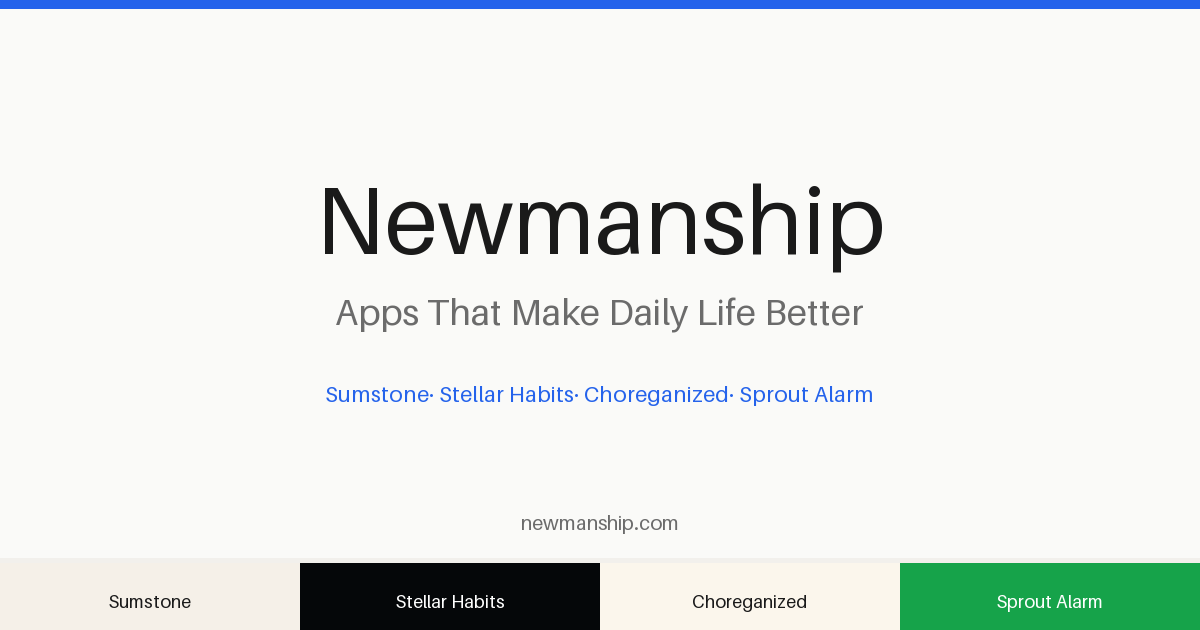
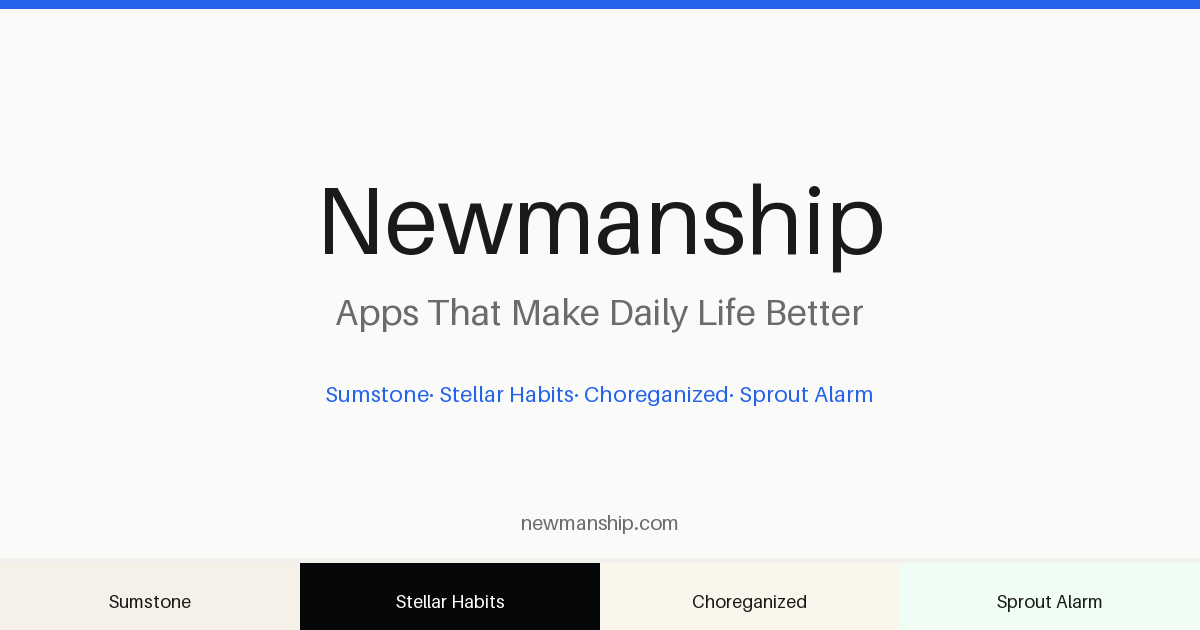
Add Task 5.2: OG image pipeline — per-app and per-post social images

Changed region(s): [[0.74, 0.8746, 1.0, 1.0]]

diff --git a/scripts/generate-og-images.py b/scripts/generate-og-images.py
@@ -8,19 +8,86 @@ OUT_DIR = os.path.join(os.path.dirname(__file__), '..', 'public', 'og')
 os.makedirs(OUT_DIR, exist_ok=True)
 
 # Brand tokens
-BG       = '#FAFAF8'
-SURFACE  = '#F2F0EC'
-INK      = '#1A1A1A'
-INK_MUTED= '#6B6B6B'
-ACCENT   = '#2563EB'
-WHITE    = '#FFFFFF'
+BG        = '#FAFAF8'
+SURFACE   = '#F2F0EC'
+INK       = '#1A1A1A'
+INK_MUTED = '#6B6B6B'
+ACCENT    = '#2563EB'
 
-# App colors
+# App data (mirrors src/content/apps/*.json)
 APPS = [
-    {'name': 'Sumstone',        'bg': '#F5F0E8', 'text': '#1A1A1A'},
-    {'name': 'Stellar Habits',  'bg': '#050709', 'text': '#FFFFFF'},
-    {'name': 'Choreganized',    'bg': '#FBF6EC', 'text': '#1A1A1A'},
-    {'name': 'Sprout Alarm',    'bg': '#16a34a', 'text': '#FFFFFF'},
+    {
+        'slug': 'sumstone',
+        'name': 'Sumstone',
+        'tagline': 'The classic numbers puzzle — pick your tiles, reach the target, beat the clock.',
+        'category': 'Puzzle / Game',
+        'bg': '#F5F0E8',
+        'accent': '#C9A84C',
+        'text': '#1A1A1A',
+        'text_muted': '#6B6B6B',
+    },
+    {
+        'slug': 'stellar-habits',
+        'name': 'Stellar Habits',
+        'tagline': 'Your habits are stars waiting to be lit.',
+        'category': 'Productivity / Habit Tracker',
+        'bg': '#050709',
+        'accent': '#F59E0B',
+        'text': '#FFFFFF',
+        'text_muted': '#AAAAAA',
+    },
+    {
+        'slug': 'choreganized',
+        'name': 'Choreganized',
+        'tagline': 'Never Miss What Matters.',
+        'category': 'Productivity / Life Management',
+        'bg': '#FBF6EC',
+        'accent': '#6366F1',
+        'text': '#1A1A1A',
+        'text_muted': '#6B6B6B',
+    },
+    {
+        'slug': 'sprout-alarm',
+        'name': 'Sprout Alarm',
+        'tagline': 'Wake up. Plant trees.',
+        'category': 'Lifestyle / Alarm Clock',
+        'bg': '#F0FDF4',
+        'accent': '#22C55E',
+        'text': '#1A1A1A',
+        'text_muted': '#6B6B6B',
+    },
+]
+
+# Blog post data (mirrors src/content/blog/*.mdx frontmatter)
+BLOG_POSTS = [
+    {
+        'slug': '5-ways-to-make-math-fun-again',
+        'title': '5 Ways to Make Math Fun Again',
+        'author': 'Ethan Newman',
+        'date': 'April 28, 2026',
+        'tags': ['math', 'puzzle', 'brain games'],
+    },
+    {
+        'slug': 'why-streaks-dont-work',
+        'title': "Why Streaks Don't Work (And What Does)",
+        'author': 'Ethan Newman',
+        'date': 'May 1, 2026',
+        'tags': ['habits', 'productivity', 'habit tracker'],
+    },
+    {
+        'slug': 'home-maintenance-schedule-youll-actually-follow',
+        'title': "The Home Maintenance Schedule You'll Actually Follow",
+        'author': 'Ethan Newman',
+        'date': 'May 5, 2026',
+        'tags': ['home maintenance', 'productivity'],
+    },
+    {
+        'slug': 'how-your-morning-alarm-can-help-the-planet',
+        'title': 'How Your Morning Alarm Can Help the Planet',
+        'author': 'Ethan Newman',
+        'date': 'May 8, 2026',
+        'tags': ['environment', 'productivity', 'alarm'],
+    },
 ]
 
 W, H = 1200, 630
@@ -31,8 +98,12 @@ def hex_to_rgb(h):
     return tuple(int(h[i:i+2], 16) for i in (0, 2, 4))
 
 
+def blend(c1, c2, t):
+    """Linear blend: t=0 → c1, t=1 → c2."""
+    return tuple(int(a * (1 - t) + b * t) for a, b in zip(c1, c2))
+
+
 def make_font(size, bold=False):
-    """Try to load a system font; fall back to PIL default."""
     candidates = [
         '/usr/share/fonts/truetype/dejavu/DejaVuSans-Bold.ttf' if bold else '/usr/share/fonts/truetype/dejavu/DejaVuSans.ttf',
         '/usr/share/fonts/truetype/liberation/LiberationSans-Bold.ttf' if bold else '/usr/share/fonts/truetype/liberation/LiberationSans-Regular.ttf',
@@ -54,44 +125,154 @@ def draw_centered_text(draw, text, y, font, color):
     draw.text((x, y), text, font=font, fill=hex_to_rgb(color))
 
 
-def generate_homepage_og():
+def wrap_text(draw, text, font, max_width):
+    """Split text into lines that fit within max_width pixels."""
+    words = text.split()
+    lines = []
+    current = ''
+    for word in words:
+        test = (current + ' ' + word).strip()
+        bbox = draw.textbbox((0, 0), test, font=font)
+        if bbox[2] - bbox[0] <= max_width:
+            current = test
+        else:
+            if current:
+                lines.append(current)
+            current = word
+    if current:
+        lines.append(current)
+    return lines
+
+
+def draw_wrapped_centered(draw, text, y_start, font, color, max_width, line_height):
+    """Draw word-wrapped centered text; returns y after the last line."""
+    lines = wrap_text(draw, text, font, max_width)
+    y = y_start
+    for line in lines:
+        draw_centered_text(draw, line, y, font, color)
+        y += line_height
+    return y
+
+
+# ---------------------------------------------------------------------------
+# Per-app OG images
+# ---------------------------------------------------------------------------
+
+def generate_app_og(app):
+    img = Image.new('RGB', (W, H), hex_to_rgb(app['bg']))
+    draw = ImageDraw.Draw(img)
+
+    # Top accent bar
+    draw.rectangle([0, 0, W, 10], fill=hex_to_rgb(app['accent']))
+
+    # Subtle bottom strip — blend bg toward accent at 12%
+    strip = blend(hex_to_rgb(app['bg']), hex_to_rgb(app['accent']), 0.12)
+    draw.rectangle([0, H - 80, W, H], fill=strip)
+
+    # Category label
+    cat_font = make_font(22)
+    draw_centered_text(draw, app['category'].upper(), 100, cat_font, app['accent'])
+
+    # App name
+    name_font = make_font(88, bold=True)
+    draw_centered_text(draw, app['name'], 148, name_font, app['text'])
+
+    # Tagline (word-wrapped)
+    tag_font = make_font(32)
+    draw_wrapped_centered(draw, app['tagline'], 278, tag_font, app['text_muted'], 920, 50)
+
+    # Footer URL
+    url_font = make_font(22)
+    draw_centered_text(draw, 'newmanship.com', H - 50, url_font, app['text_muted'])
+
+    out_path = os.path.join(OUT_DIR, f"{app['slug']}.png")
+    img.save(out_path, 'PNG', optimize=True)
+    print(f'Saved {out_path}')
+    return out_path
+
+
+# ---------------------------------------------------------------------------
+# Per-blog-post OG images
+# ---------------------------------------------------------------------------
+
+def generate_blog_og(post):
     img = Image.new('RGB', (W, H), hex_to_rgb(BG))
     draw = ImageDraw.Draw(img)
 
     # Top accent bar
     draw.rectangle([0, 0, W, 8], fill=hex_to_rgb(ACCENT))
 
-    # App color strips at bottom (560–630)
+    # "Newmanship Blog" label
+    label_font = make_font(22, bold=True)
+    draw_centered_text(draw, 'NEWMANSHIP BLOG', 55, label_font, ACCENT)
+
+    # Thin rule
+    draw.rectangle([W // 2 - 180, 96, W // 2 + 180, 98], fill=hex_to_rgb(SURFACE))
+
+    # Title — large bold, word-wrapped
+    title_font = make_font(56, bold=True)
+    title_lines = wrap_text(draw, post['title'], title_font, 950)
+    line_h = 72
+    total_title_h = len(title_lines) * line_h
+    # Center vertically in the 120–430 band
+    title_y = 120 + max(0, (310 - total_title_h) // 2)
+    for line in title_lines:
+        draw_centered_text(draw, line, title_y, title_font, INK)
+        title_y += line_h
+
+    # Author · date
+    meta_font = make_font(22)
+    meta_text = f"{post['author']}  ·  {post['date']}"
+    draw_centered_text(draw, meta_text, 458, meta_font, INK_MUTED)
+
+    # Tags
+    tag_font = make_font(18)
+    tags_text = '  ·  '.join(f'#{t}' for t in post['tags'][:3])
+    draw_centered_text(draw, tags_text, 494, tag_font, ACCENT)
+
+    # URL
+    url_font = make_font(20)
+    draw_centered_text(draw, 'newmanship.com/blog', 565, url_font, INK_MUTED)
+
+    out_path = os.path.join(OUT_DIR, f"blog-{post['slug']}.png")
+    img.save(out_path, 'PNG', optimize=True)
+    print(f'Saved {out_path}')
+    return out_path
+
+
+# ---------------------------------------------------------------------------
+# Homepage & default (from Task 2.5 — regenerated here for completeness)
+# ---------------------------------------------------------------------------
+
+def generate_homepage_og():
+    img = Image.new('RGB', (W, H), hex_to_rgb(BG))
+    draw = ImageDraw.Draw(img)
+
+    draw.rectangle([0, 0, W, 8], fill=hex_to_rgb(ACCENT))
+
     strip_w = W // len(APPS)
     for i, app in enumerate(APPS):
         x0 = i * strip_w
         x1 = x0 + strip_w
         draw.rectangle([x0, 560, x1, H], fill=hex_to_rgb(app['bg']))
-        # App name in strip
         app_font = make_font(18, bold=True)
         bbox = draw.textbbox((0, 0), app['name'], font=app_font)
         tw = bbox[2] - bbox[0]
         tx = x0 + (strip_w - tw) // 2
         draw.text((tx, 590), app['name'], font=app_font, fill=hex_to_rgb(app['text']))
 
-    # Separator line
     draw.rectangle([0, 558, W, 562], fill=hex_to_rgb(SURFACE))
 
-    # Main text area
-    # Brand name
     brand_font = make_font(96, bold=True)
     draw_centered_text(draw, 'Newmanship', 160, brand_font, INK)
 
-    # Tagline
     tag_font = make_font(36)
     draw_centered_text(draw, 'Apps That Make Daily Life Better', 290, tag_font, INK_MUTED)
 
-    # Dot separator
     dot_font = make_font(22)
     dot_text = '· '.join(a['name'] for a in APPS)
     draw_centered_text(draw, dot_text, 380, dot_font, ACCENT)
 
-    # Bottom URL
     url_font = make_font(20)
     draw_centered_text(draw, 'newmanship.com', 510, url_font, INK_MUTED)
 
@@ -102,7 +283,6 @@ def generate_homepage_og():
 
 
 def generate_default_og():
-    """Minimal fallback OG image — just the brand name on a clean background."""
     img = Image.new('RGB', (W, H), hex_to_rgb(BG))
     draw = ImageDraw.Draw(img)
 
@@ -126,4 +306,8 @@ def generate_default_og():
 if __name__ == '__main__':
     generate_homepage_og()
     generate_default_og()
+    for app in APPS:
+        generate_app_og(app)
+    for post in BLOG_POSTS:
+        generate_blog_og(post)
     print('Done.')

diff --git a/PRD.md b/PRD.md
@@ -438,12 +438,13 @@ Gather app screenshots/icons, create OG images, optimize all assets, and polish 
 - Create favicon from Newmanship brand mark
 - Note: Real app icons not yet exported from the app projects; created branded SVG placeholder icons for each app in `public/app-icons/` (sumstone, stellar-habits, choreganized, sprout-alarm) using each app's brand colors and a distinctive visual motif (tiles for Sumstone, star for Stellar Habits, checkmark for Choreganized, sprout for Sprout Alarm); favicon.svg (`public/favicon.svg`) was already in place as a blue "N" monogram from the Task 1.1 scaffold; added `iconPath` field to all 4 app JSON files; updated `AppLandingLayout` to accept `iconPath` prop and display a 128×128 `loading="eager"` icon in the hero; `AppCard` already handled 64×64 icons — icons now appear on homepage cards and all 4 app landing page heroes; replace SVGs with real app icon exports when available
 
-#### Task 5.2: OG image creation
+#### Task 5.2: OG image creation ✅ DONE (2026-05-12)
 - Create 1200x630 OG images for:
   - Homepage (Newmanship brand + 4 app icons)
   - Each app landing page (app icon + name + tagline on branded background)
   - Blog post template (title text on branded background)
 - Place in `src/assets/images/og-images/`
+- Note: All 10 OG images generated via `scripts/generate-og-images.py` (Pillow) and placed in `public/og/`; per-app images (`sumstone.png`, `stellar-habits.png`, `choreganized.png`, `sprout-alarm.png`) use each app's brand background + accent bar + name + tagline; per-post images (`blog-{slug}.png`) use the parent brand background with post title word-wrapped, author, date, tags, and URL; all 4 app pages now pass `image="/og/{slug}.png"` to `AppLandingLayout`; `[...slug].astro` derives `ogImage` from `heroImage ?? \`/og/blog-${post.slug}.png\`` so blog post OG images are used automatically; OG image URL appears correctly in og:image, twitter:image, and Article JSON-LD schema image fields
 
 #### Task 5.3: Screenshot placeholders
 - Create placeholder sections on each app page for screenshots